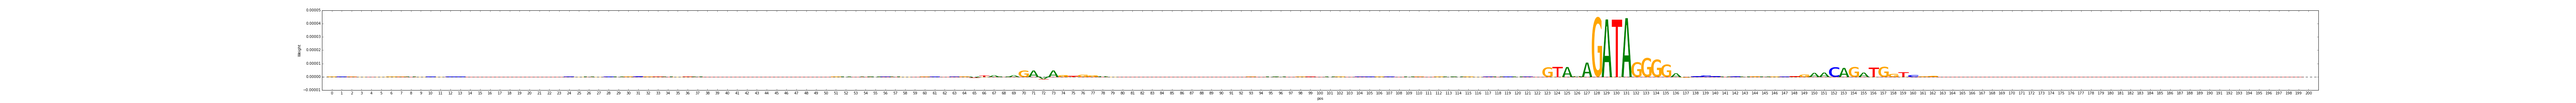
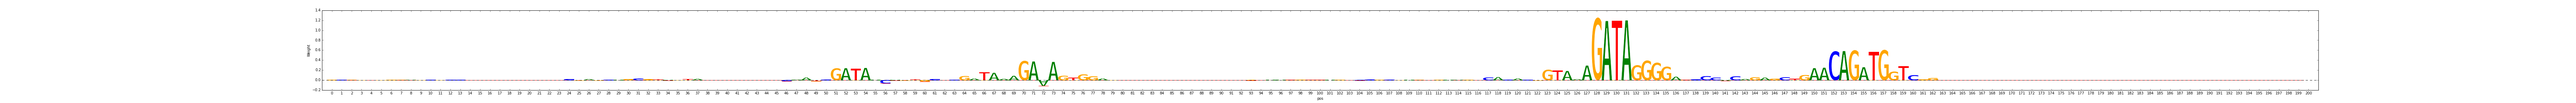
blah
Former-commit-id: 6b28d5303b4638bc354f3f3ba6bae54527efdf58

Changed region(s): [[0.125, 0.5, 0.875, 0.8125], [0.375, 0.5938, 0.4062, 0.625], [0.0938, 0.4688, 0.125, 0.5]]

diff --git a/deeplift/blobs.py b/deeplift/blobs.py
@@ -20,7 +20,18 @@ ScoringMode = deeplift_util.enum(OneAndZeros="OneAndZeros",
 MxtsMode = deeplift_util.enum(Gradient="Gradient", DeepLIFT="DeepLIFT",
                                     DeconvNet="DeconvNet",
                                     GuidedBackprop="GuidedBackprop",
-                                    GuidedBackpropDeepLIFT="GuidedBackpropDeepLIFT")
+                                    GuidedBackpropDeepLIFT1=\
+                                     "GuidedBackpropDeepLIFT1",
+                                    GuidedBackpropDeepLIFT2=\
+                                     "GuidedBackpropDeepLIFT2",
+                                    GuidedBackpropDeepLIFT3=\
+                                     "GuidedBackpropDeepLIFT3",
+                                    ExpoUpweightTopLayers1=\
+                                     "ExpoUpweightTopLayers1",
+                                    ExpoUpweightTopLayers2=\
+                                     "ExpoUpweightTopLayers2",
+                                    GuidedBackpropDeepLIFT5=\
+                                     "GuidedBackpropDeepLIFT5")
 
 NEAR_ZERO_THRESHOLD = 10**(-7)
 
@@ -456,15 +467,44 @@ class Activation(SingleInputMixin, OneDimOutputMixin, Node):
     def _get_mxts_increments_for_inputs(self):
         if (self.mxts_mode == MxtsMode.DeepLIFT): 
             mxts = self._deeplift_get_mxts_increment_for_inputs()
-        elif (self.mxts_mode == MxtsMode.GuidedBackpropDeepLIFT):
+        elif (self.mxts_mode == MxtsMode.GuidedBackpropDeepLIFT1):
             deeplift_mxts = self._deeplift_get_mxts_increment_for_inputs() 
             mxts = deeplift_mxts*(self.get_mxts() > 0)
+        elif (self.mxts_mode == MxtsMode.GuidedBackpropDeepLIFT2):
+            gtezero_activation_mask = (self.get_activation_vars() > 0)
+            deeplift_mxts = self._deeplift_get_mxts_increment_for_inputs() 
+            #intention: mask out all negative contribs for active relus
+            mxts = deeplift_mxts*(1-(deeplift_mxts*gtezero_activation_mask
+                                     < 0))
+        elif (self.mxts_mode == MxtsMode.GuidedBackpropDeepLIFT3):
+            gtezero_activation_mask = (self.get_activation_vars() > 0)
+            deeplift_mxts = self._deeplift_get_mxts_increment_for_inputs() 
+            #mask out contributions where relu inactive
+            mxts = deeplift_mxts*(gtezero_activation_mask)
+        elif (self.mxts_mode == MxtsMode.ExpoUpweightTopLayers1):
+            gtezero_activation_mask = (self.get_activation_vars() > 0)
+            deeplift_mxts = self._deeplift_get_mxts_increment_for_inputs() 
+            mxts = deeplift_mxts*\
+                   self.get_mxts()*\
+                    ((self.get_mxts()>0) + -1*(self.get_mxts()<0))
+        elif (self.mxts_mode == MxtsMode.ExpoUpweightTopLayers2):
+            gtezero_activation_mask = (self.get_activation_vars() > 0)
+            deeplift_mxts = self._deeplift_get_mxts_increment_for_inputs() 
+            mxts = deeplift_mxts*B.pow(B.abs(self.get_mxts()),3)
+        elif (self.mxts_mode == MxtsMode.GuidedBackpropDeepLIFT5):
+            gtezero_activation_mask = (self.get_activation_vars() > 0)
+            deeplift_mxts = self._deeplift_get_mxts_increment_for_inputs() 
+            scale_factor = (deeplift_mxts/(self.get_mxts()+
+                                           NEAR_ZERO_THRESHOLD*
+                                    (self.get_mxts() < NEAR_ZERO_THRESHOLD)))
+            mxts = deeplift_mxts\
+                   *scale_factor\
+                   *((scale_factor>0) + -1*(scale_factor<0))
         elif (self.mxts_mode == MxtsMode.Gradient):
             mxts = self._gradients_get_mxts_increment_for_inputs() 
         elif (self.mxts_mode == MxtsMode.GuidedBackprop):
-            mxts = self.get_mxts()\
-                    *(self.get_mxts() > 0)\
-                    *(self._gradients_get_mxts_increment_for_inputs()) 
+            mxts = self._gradients_get_mxts_increment_for_inputs()\
+                   *(self.get_mxts() > 0)
         elif (self.mxts_mode == MxtsMode.DeconvNet):
             #use the given nonlinearity, but in reverse
             mxts = self._build_activation_vars(self.get_mxts())

diff --git a/deeplift/deeplift_backend.py b/deeplift/deeplift_backend.py
@@ -16,6 +16,10 @@ def reshape(tensor, shape):
     return T.reshape(tensor, shape)
 
 
+def pow(inp, power):
+    return T.pow(inp, power)
+
+
 def maximum(x, y):
     return T.maximum(x, y)
 
